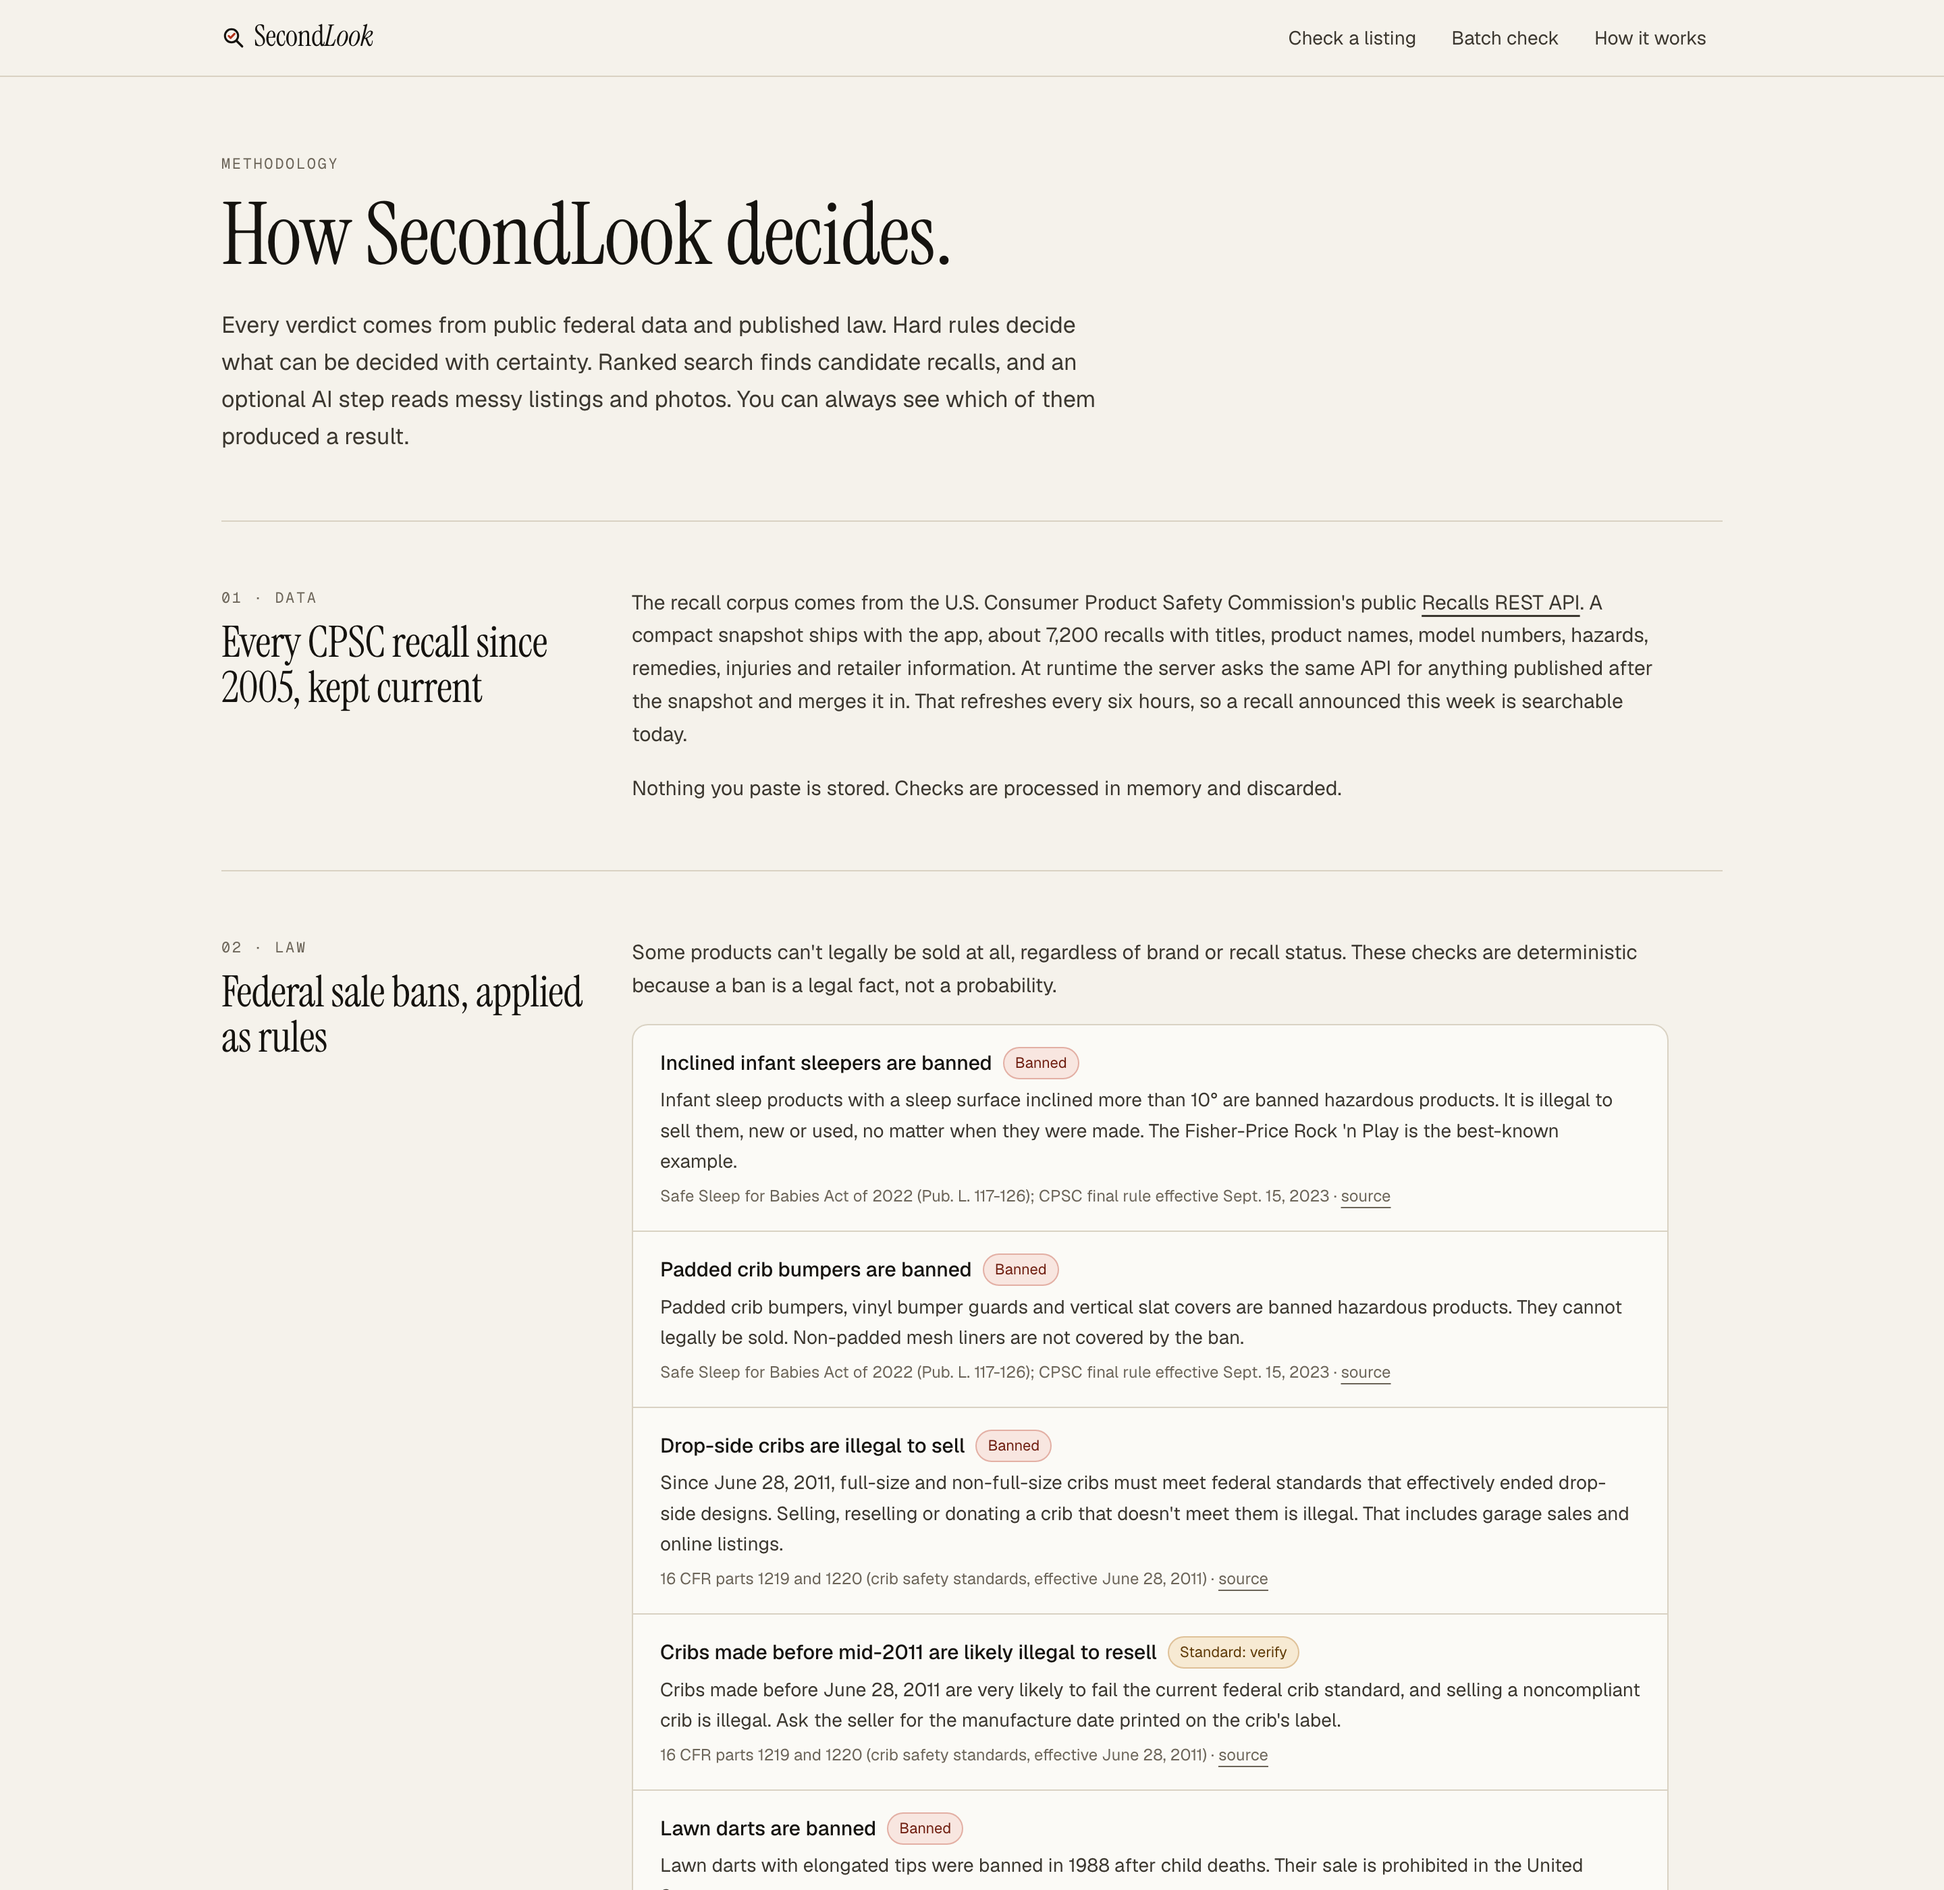
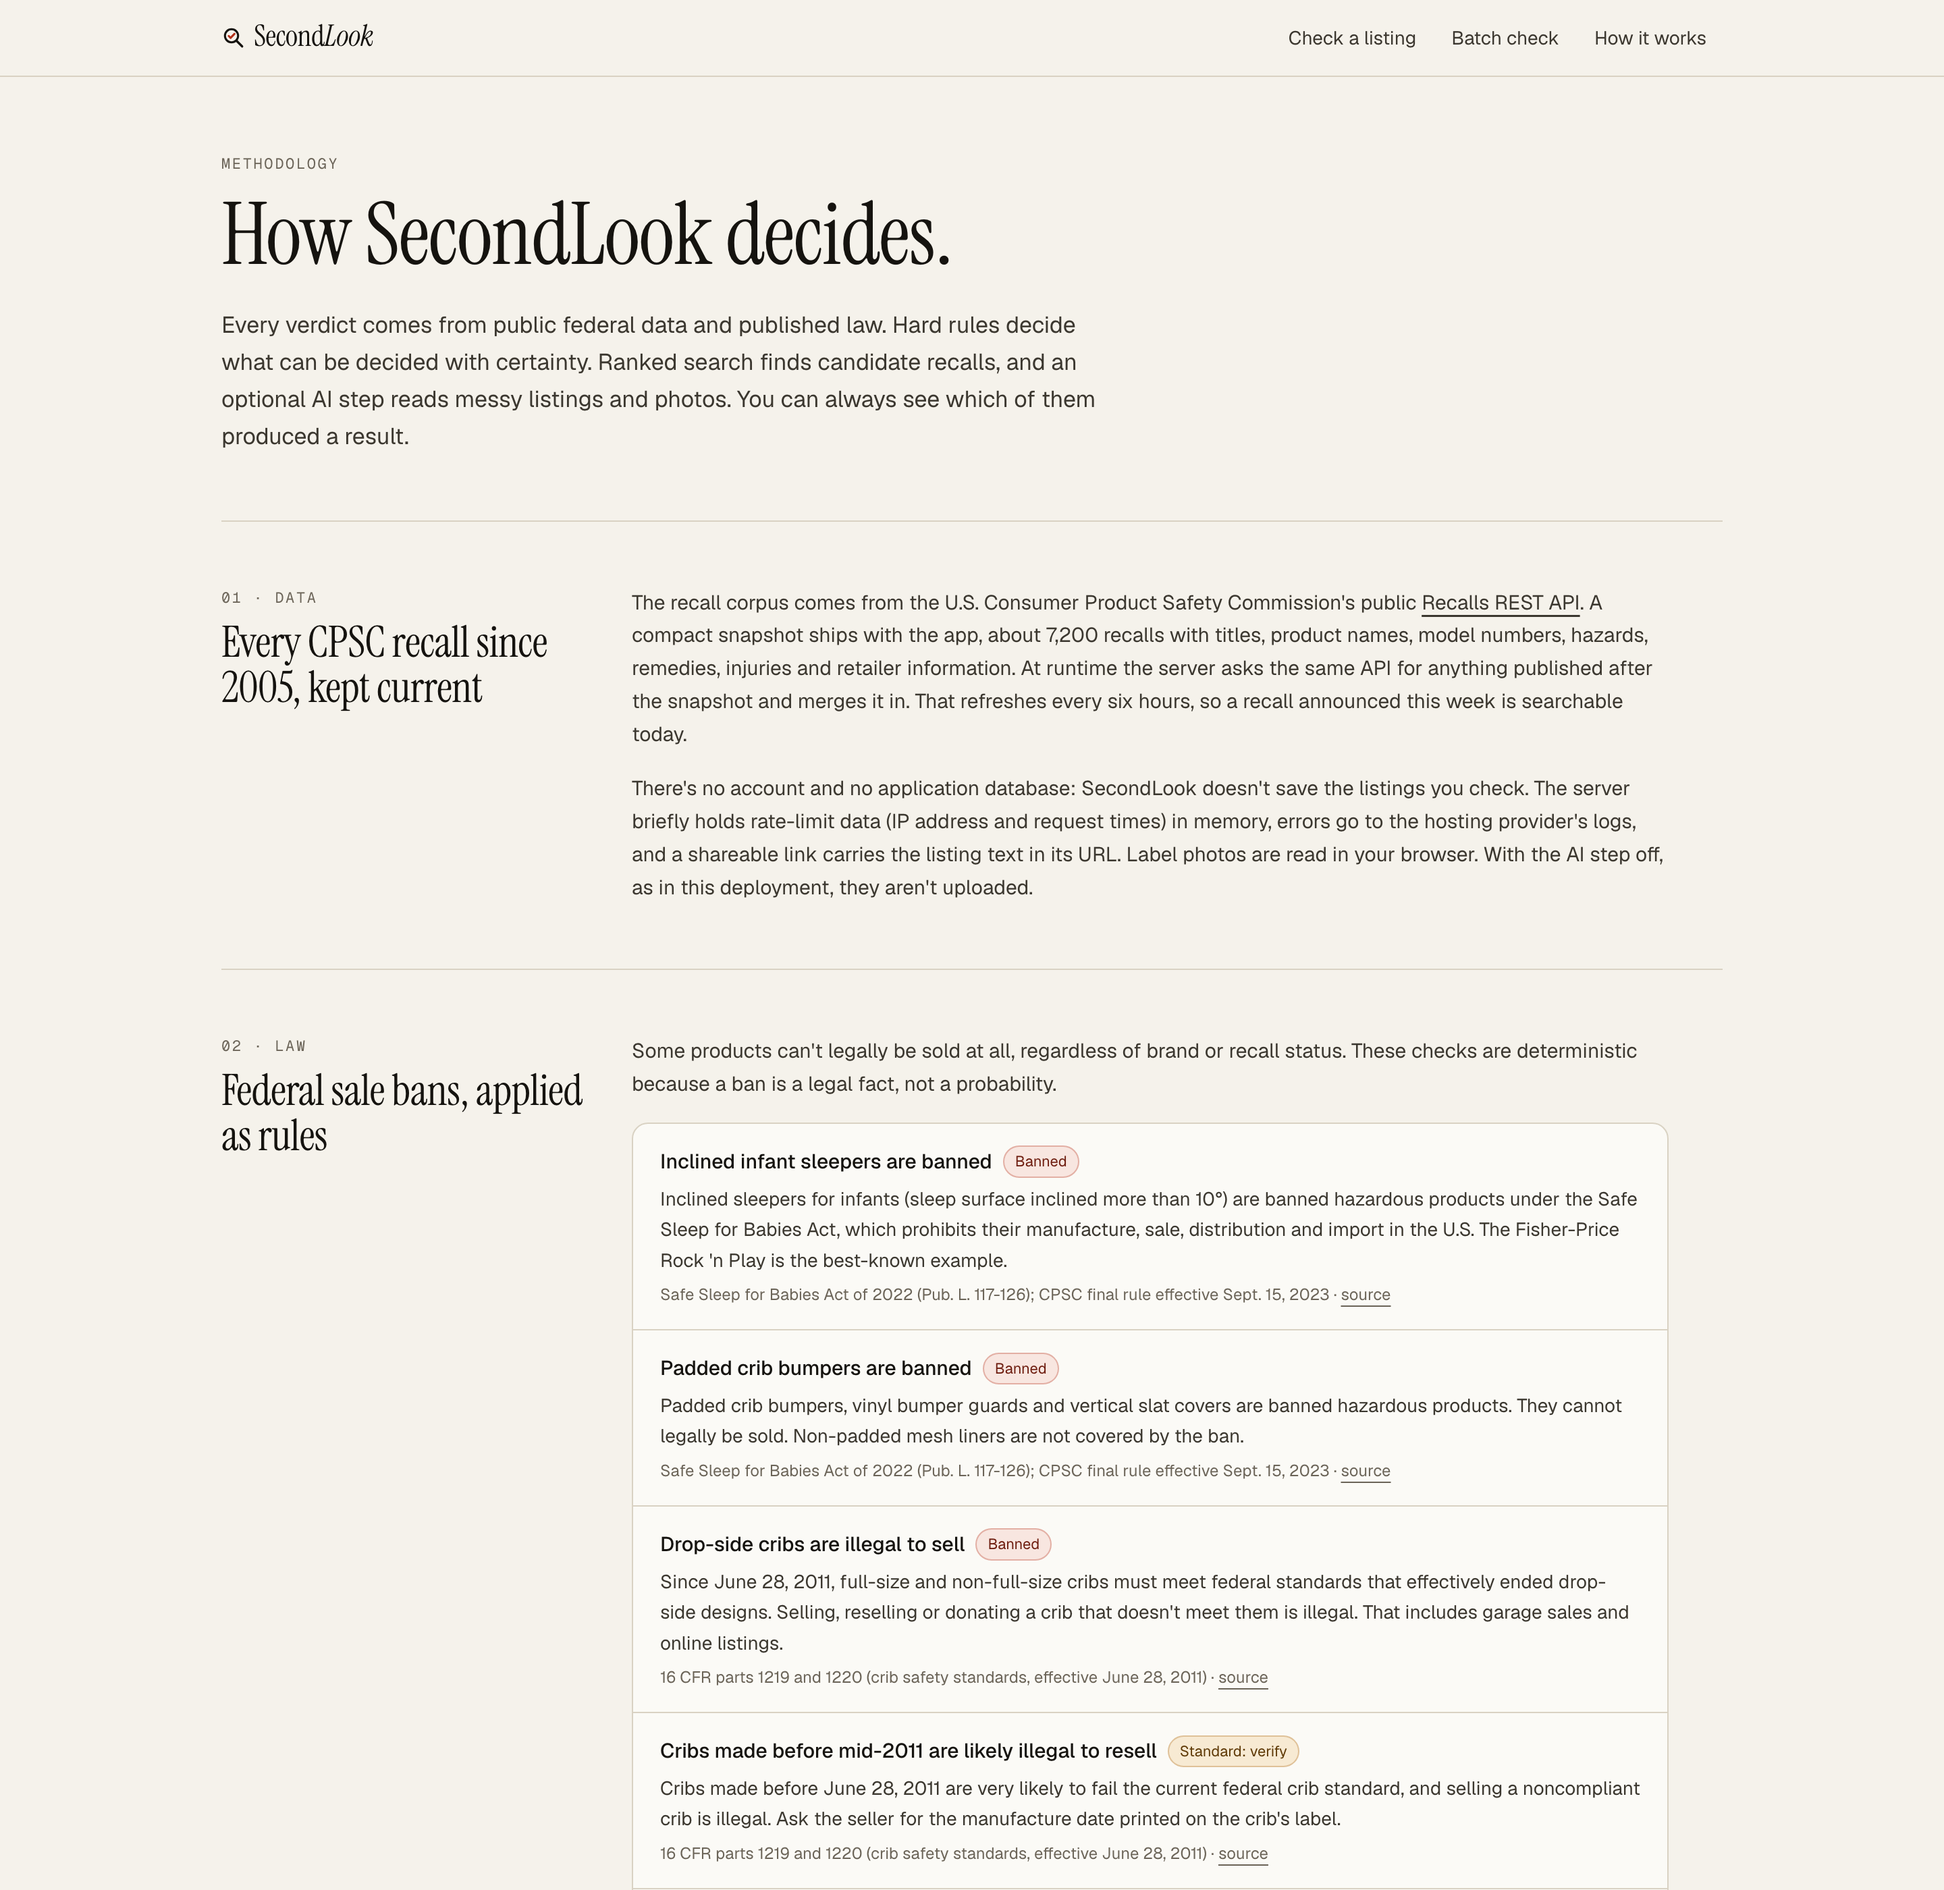
Recapture gallery, thumbnail and README screenshots after copy corrections; document video timestamps; vercelignore for media

diff --git a/docs/FINAL_SUBMISSION_AUDIT.md b/docs/FINAL_SUBMISSION_AUDIT.md
@@ -67,13 +67,41 @@ Audited Nov 15, 2026, about 03:00 PT. **Deadline: Sun Nov 15, 2026, 6:00 PM PT (
 5. **Tags.** Each of the 19 tags was checked against the repo (the mapping is in the Devpost doc). Claude Code is kept in the tags and the disclosure. The Anthropic API is not listed.
 6. **AI disclosure.** States: deterministic rules engine; browser-based Tesseract.js OCR as the only live ML; the optional Anthropic integration disabled; Claude Code used during development; synthetic narration in the video.
 
-### Known inconsistencies in the live app copy (not changed, per instruction not to modify the app)
-These are display strings in the deployed app. They're also visible in the gallery screenshots and the demo video:
-- `src/app/page.tsx`: the landing fact card reads "≈1 in 3 — Recalled units never refunded, replaced or repaired…" (the same derived claim removed from the docs).
-- `src/app/page.tsx` / `how-it-works/page.tsx`: "Free, no account, nothing stored" / "Nothing you paste is stored". These are broader than the precise statement above.
-- `src/lib/bans.ts`: the inclined-sleeper summary says "illegal to sell them, new or used, no matter when they were made". The statute's text bans manufacture, sale, distribution and import, but whether that covers private resale of units made before the ban isn't confirmed by a primary source we checked.
+### Live-app copy corrections (deployed)
+Text-only changes in three files: `src/app/page.tsx`, `src/app/how-it-works/page.tsx` and the inclined-sleeper `summary` string in `src/lib/bans.ts`. There were no engine, API, data, dependency or design changes.
 
-A copy-only fix is possible (no logic change), but the published video and the screenshots would keep showing the old wording.
+| Before | After |
+|---|---|
+| Landing fact card "≈1 in 3: recalled units never refunded, replaced or repaired…" | "65%: overall correction rate CPSC staff reported across 865 closed Section 15 cases (FY 2014–2016). It counts corrections by manufacturers, distributors, retailers and consumers together." |
+| "Free, no account, nothing stored" | "Free, no account, no database" |
+| "Nothing you paste is stored." (How it works) | No account and no application database. Discloses in-memory rate-limit data (IP and request times), the hosting provider's error logs, and listing text in shareable URLs. Label photos are read in the browser and not uploaded while the AI step is off. |
+| Inclined sleepers: "illegal to sell them, new or used, no matter when they were made" | "…banned hazardous products under the Safe Sleep for Babies Act, which prohibits their manufacture, sale, distribution and import in the U.S." |
+
+**Verification:**
+- `npm run build` ✓.
+- `npx tsx scripts/smoke.mts`: all 10 listings return the same verdicts as before (engine unchanged).
+- Production deployed by the GitHub push (Vercel Git integration).
+- Live HTML contains the new strings, and the old strings are absent.
+- `POST /api/check` returns the new ban summary.
+
+**Recaptured:** gallery `01`, `02`, `04`, `05`, `07` and `09` (content changed), the full set re-shot; `devpost-thumbnail.png`; and the README's `docs/screenshots/home.png`, `result-banned.png` and `how-it-works.png`.
+
+### Published video vs. the corrected app (not changed; needs your approval)
+Checked frame by frame on the master file, which is the same render as https://youtu.be/q6ousB0I6-I.
+
+| Outdated on-screen text (live-app footage) | Where | Timestamps |
+|---|---|---|
+| Hero bullet "Free, no account, nothing stored" | Brand-reveal landing shot; start of each demo before the camera punches in | **0:45.0–0:50.0**, **0:59.6–1:00.3**, **1:12.0–1:14.0**, **1:17.7–1:18.3**, **1:25.0–1:27.7** |
+| Inclined-sleeper ban card "…illegal to sell them, new or used, no matter when they were made…" | Demo 1 (pasted listing) and Demo 2 (label photo) result screens; readable when the camera punches in on the ban card | **1:00.4–1:07.4** (in close-up 1:03.3–1:07.3), **1:18.4–1:25.0** |
+| "≈1 in 3" fact card | Not visible anywhere in the film | — |
+
+The narration, captions and motion-graphic scenes contain none of the three claims.
+
+**Fix feasibility (no full rebuild needed):** the pipeline is reproducible from `submission/video/`.
+1. Re-run `capture.mjs` for the four affected clips (landing, sleeper, photo, swing) against the corrected site. Check event markers and nudge `FOOTAGE` media offsets if the timing shifted.
+2. Rebuild the scenes and re-render.
+
+Narration, music, graphics and captions stay as they are, and the work is roughly 20–30 minutes including QA. The catch is that YouTube can't replace a file under an existing URL. A fix means a **new upload and a new link** in Devpost, the README and the docs.
 
 ## Outstanding manual actions (owner: Siddhant)
 1. Fill in the Devpost form from `submission/DEVPOST_SUBMISSION.md`, upload the thumbnail and gallery, and select the prizes.

diff --git a/submission/DEVPOST_MEDIA_GUIDE.md b/submission/DEVPOST_MEDIA_GUIDE.md
@@ -1,11 +1,11 @@
 # Devpost Media Guide: SecondLook
 
-All media are genuine captures of the live app (https://secondlook-nu.vercel.app), taken Nov 15, 2026 by `submission/video/capture/gallery.mjs`. That script loads the production site, types and clicks for real, and uploads the sample label. No image is mocked or edited, and none contains personal data, credentials or API keys.
+All media are genuine captures of the live app (https://secondlook-nu.vercel.app), taken Nov 15, 2026 by `submission/video/capture/gallery.mjs` and recaptured after the live-app copy corrections (deployment of commit `264df07`). That script loads the production site, types and clicks for real, and uploads the sample label. No image is mocked or edited, and none contains personal data, credentials or API keys.
 
 ## Thumbnail (Project Overview → Thumbnail)
 | File | Size | Notes |
 |---|---|---|
-| `submission/assets/devpost-thumbnail.png` | 1500 × 1000 (3:2), 215 KB | The SecondLook lockup, the tagline "Look twice before you buy it used.", a one-line purpose statement and three fact chips (7,192 CPSC recalls · Federal ban rules · Label OCR), next to a real crop of the live "Don't buy this. It's illegal to sell." verdict. The source HTML is in `submission/assets/thumbnail-src/`. |
+| `submission/assets/devpost-thumbnail.png` | 1500 × 1000 (3:2), 223 KB | The SecondLook lockup, the tagline "Look twice before you buy it used.", a one-line purpose statement and three fact chips (7,192 CPSC recalls · Federal ban rules · Label OCR), next to a real crop of the live "Don't buy this. It's illegal to sell." verdict. The source HTML is in `submission/assets/thumbnail-src/`. |
 
 ## Image gallery (Project Details → Image gallery)
 Folder: `submission/assets/devpost-gallery/`. It contains exactly **nine** images: **six recommended (1–6) and three optional (7–9)**. Every image is a 2400 × 1600 (3:2) PNG under 1 MB. Upload in this order. The order tells the story: input → verdict → evidence → photo → action → scale.

diff --git a/docs/DEPLOYMENT.md b/docs/DEPLOYMENT.md
@@ -1,7 +1,7 @@
 # Deployment
 
 **Production URL:** https://secondlook-nu.vercel.app  
-**Host:** Vercel (Hobby/free tier), project `secondlook` under the `sidd927` account, deployed with the Vercel CLI from the `main` branch.
+**Host:** Vercel (Hobby/free tier), project `secondlook` under the `sidd927` account. **Pushes to `main` on GitHub deploy production automatically** (Vercel Git integration). `npx vercel deploy --prod` also works; `.vercelignore` keeps the local video and media files (over 100 MB) out of CLI uploads.
 
 ## What's deployed
 | Route | Type | Purpose |

diff --git a/submission/DEVPOST_SUBMISSION.md b/submission/DEVPOST_SUBMISSION.md
@@ -19,7 +19,7 @@ Paste a secondhand listing or snap its label. SecondLook checks it against U.S. 
 
 ### Thumbnail
 `submission/assets/devpost-thumbnail.png`
-- 1500 × 1000 px (3:2), PNG, 215 KB.
+- 1500 × 1000 px (3:2), PNG, 223 KB. Recaptured after the copy corrections.
 - Shows the SecondLook lockup, the tagline, a one-line purpose statement, and a real crop of the live app's "Don't buy this" verdict.
 
 ---
